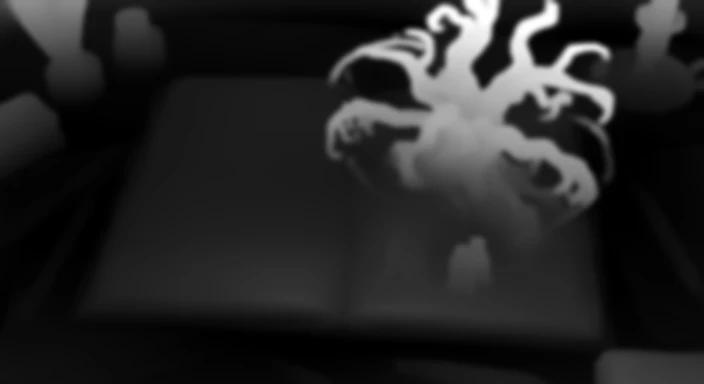
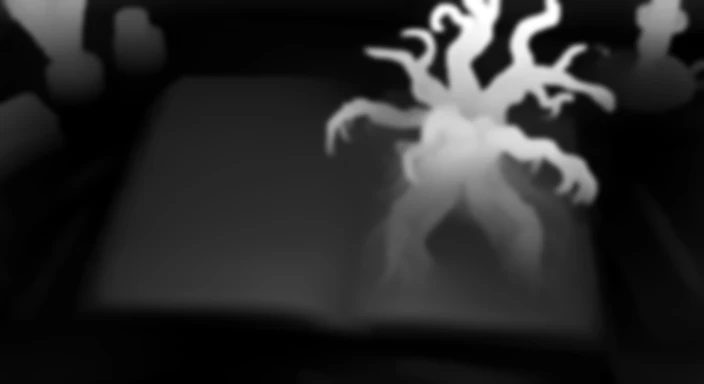
Upside-Down World p6: new crawl-in picture; kid-free plate rebuilt from the frames, kids cut out per pose and animated crawling in, standing and walking into the dark (gliding cross-fades), 2x upscale
Claude-Session: https://claude.ai/code/session_01BFtifSTdmWYaAK88ECs5PE

diff --git a/books/upside-down-world/sprite.js b/books/upside-down-world/sprite.js
@@ -1,2 +1,2 @@
 /* flying objects drawn over a still page: img = transparent sprite, rs = ball radius in the sprite, path = [x,y,radius] per frame at 24 fps in 1408x768 picture pixels */
-window.SPRITES={p01:{img:"img/p01-ball.webp",size:260,rs:104.5,path:[[951.0,390.0,18.5],[946.4,377.6,21.9],[944.8,373.2,22.6],[941.8,364.8,24.4],[938.6,356.8,26.0],[935.2,349.1,27.6],[931.6,342.1,29.2],[927.9,335.5,30.7],[923.8,329.1,32.0],[919.7,322.8,33.5],[915.7,316.9,34.9],[911.8,311.1,36.2],[907.8,305.5,37.6],[903.9,300.1,38.9],[899.8,295.1,40.2],[895.8,290.0,41.2],[891.4,285.1,42.2],[887.2,280.3,43.2],[882.9,275.7,44.3],[878.9,271.0,45.3],[874.9,266.6,46.5],[871.2,262.1,47.8],[867.5,257.7,49.1],[863.9,253.4,50.5],[860.2,249.1,51.8],[856.2,244.7,53.0],[852.4,240.6,54.2],[848.3,236.6,55.3],[843.9,232.6,56.5],[839.6,228.6,57.6],[835.4,224.8,58.6],[830.9,221.0,59.7],[826.3,217.3,60.7],[821.9,213.7,61.5],[817.4,210.1,62.4],[812.8,206.8,63.6],[808.1,203.5,64.5],[803.4,200.3,65.6],[798.8,196.9,66.6],[794.1,193.7,67.7],[789.4,190.4,68.8],[784.8,187.1,70.0],[780.1,183.8,71.3],[775.3,180.6,72.7],[770.3,177.4,74.1],[765.1,174.3,75.5],[759.8,171.1,77.0],[754.7,167.8,78.5],[749.2,164.6,80.0],[743.7,161.4,81.3],[738.1,157.9,82.7],[732.6,154.6,84.0]]},p02:{img:"img/p01-ball.webp",size:260,rs:104.5,kind:"lob",from:[1008,538,9],to:[1040,212,4.2],apex:170,rig:[{img:"img/p02-leg.webp",box:[960,515,60,60],pivot:[987,531],depth:[988,545],motion:"leg"}]},p03:{rig:[{img:"img/p03-leo.webp",box:[906,462,52,56],pivot:[932,504],depth:[932,495],motion:"headL"},{img:"img/p03-sam.webp",box:[946,475,52,56],pivot:[972,515],depth:[972,505],motion:"headS"}]},p03s:{img:"img/p01-ball.webp",size:260,rs:104.5,kind:"hops",ground:true,rest:1.6,start:[920.3,488.6,14.5],du:[1.25,.42,.3],grow:.5,bend:-62,hops:[[896,197,9.5,175],[892,187,8.5,15],[879,181,7.5,6]],to:[879,181,7.5]},p03t:{rig:[{img:"img/p03-turn.webp",box:[888,468,114,140],pivot:[945,538],depth:[945,540],motion:"turn"}]},p05p:{rig:[{img:"img/p05-point.webp",box:[884,452,118,156],pivot:[943,530],depth:[943,540],motion:"point2"}]}};
+window.SPRITES={p01:{img:"img/p01-ball.webp",size:260,rs:104.5,path:[[951.0,390.0,18.5],[946.4,377.6,21.9],[944.8,373.2,22.6],[941.8,364.8,24.4],[938.6,356.8,26.0],[935.2,349.1,27.6],[931.6,342.1,29.2],[927.9,335.5,30.7],[923.8,329.1,32.0],[919.7,322.8,33.5],[915.7,316.9,34.9],[911.8,311.1,36.2],[907.8,305.5,37.6],[903.9,300.1,38.9],[899.8,295.1,40.2],[895.8,290.0,41.2],[891.4,285.1,42.2],[887.2,280.3,43.2],[882.9,275.7,44.3],[878.9,271.0,45.3],[874.9,266.6,46.5],[871.2,262.1,47.8],[867.5,257.7,49.1],[863.9,253.4,50.5],[860.2,249.1,51.8],[856.2,244.7,53.0],[852.4,240.6,54.2],[848.3,236.6,55.3],[843.9,232.6,56.5],[839.6,228.6,57.6],[835.4,224.8,58.6],[830.9,221.0,59.7],[826.3,217.3,60.7],[821.9,213.7,61.5],[817.4,210.1,62.4],[812.8,206.8,63.6],[808.1,203.5,64.5],[803.4,200.3,65.6],[798.8,196.9,66.6],[794.1,193.7,67.7],[789.4,190.4,68.8],[784.8,187.1,70.0],[780.1,183.8,71.3],[775.3,180.6,72.7],[770.3,177.4,74.1],[765.1,174.3,75.5],[759.8,171.1,77.0],[754.7,167.8,78.5],[749.2,164.6,80.0],[743.7,161.4,81.3],[738.1,157.9,82.7],[732.6,154.6,84.0]]},p02:{img:"img/p01-ball.webp",size:260,rs:104.5,kind:"lob",from:[1008,538,9],to:[1040,212,4.2],apex:170,rig:[{img:"img/p02-leg.webp",box:[960,515,60,60],pivot:[987,531],depth:[988,545],motion:"leg"}]},p03:{rig:[{img:"img/p03-leo.webp",box:[906,462,52,56],pivot:[932,504],depth:[932,495],motion:"headL"},{img:"img/p03-sam.webp",box:[946,475,52,56],pivot:[972,515],depth:[972,505],motion:"headS"}]},p03s:{img:"img/p01-ball.webp",size:260,rs:104.5,kind:"hops",ground:true,rest:1.6,start:[920.3,488.6,14.5],du:[1.25,.42,.3],grow:.5,bend:-62,hops:[[896,197,9.5,175],[892,187,8.5,15],[879,181,7.5,6]],to:[879,181,7.5]},p03t:{rig:[{img:"img/p03-turn.webp",box:[888,468,114,140],pivot:[945,538],depth:[945,540],motion:"turn"}]},p05p:{rig:[{img:"img/p05-point.webp",box:[884,452,118,156],pivot:[943,530],depth:[943,540],motion:"point2"}]},p06k:{rig:[{img:"img/p06-k0.webp",box:[878,423,80,114],pivot:[918.4,478.3],depth:[918.4,508.3],motion:"kf0"},{img:"img/p06-k1.webp",box:[866,417,97,111],pivot:[915.3,473.5],depth:[915.3,503.5],motion:"kf1"},{img:"img/p06-k2.webp",box:[874,472,99,116],pivot:[921.4,531.8],depth:[921.4,561.8],motion:"kf2"}]}};

diff --git a/books/upside-down-world/index.html b/books/upside-down-world/index.html
@@ -337,6 +337,23 @@ const MOT={
   /* page 5: Leo points into the hole twice per 16 s cycle (soft fade to the pointing pose) */
   point2(tt){const T=16;tt=((tt%T)+T)%T;const on=(s,e)=>tt<s||tt>e+.5?0:tt<s+.5?ease((tt-s)/.5):tt<e?1:1-ease((tt-e)/.5);
     return {dx:0,dy:0,rot:0,sx:1,sy:1,a:Math.max(on(1.8,6.2),on(9.8,14.2))};},
+  /* page 6: the kids crawl in from the front, reach the entrance, stand and walk into the dark.
+     Each pose glides toward the next one's spot while they cross-fade, so the figures travel instead of popping. */
+  kf(tt,i){const T=15;tt=((tt%T)+T)%T;const C=[[918.4,478.3],[915.3,473.5],[921.4,531.8]],SZ=[1,1,1.06];
+    const sm=x=>{x=Math.max(0,Math.min(1,x));return x*x*(3-2*x);},gl=(a,b,u)=>a+(b-a)*u;
+    const bob=Math.sin(tt*5.2)*1.1,sw=Math.sin(tt*2.6)*.018;
+    const tw=(from,to,u)=>{const p=sm(u),A=C[from],B=C[to],me=i===from?A:B,ex=gl(A[0],B[0],p)-me[0],ey=gl(A[1],B[1],p)-me[1];
+      const sc=i===from?gl(1,SZ[to]/SZ[from],p):gl(SZ[from]/SZ[to],1,p);
+      return {dx:ex,dy:ey+bob,rot:sw,sx:sc,sy:sc,a:i===from?1-sm((u-.38)/.24):sm((u-.38)/.24)};};
+    const no={dx:0,dy:0,rot:0,sx:1,sy:1,a:0};
+    if(tt<1.6)return i===2?{dx:0,dy:bob,rot:sw,sx:1,sy:1,a:1}:no;
+    if(tt<4.6)return i===2||i===1?tw(2,1,(tt-1.6)/3):no;
+    if(tt<6.0)return i===1?{dx:0,dy:bob,rot:sw,sx:1,sy:1,a:1}:no;
+    if(tt<9.0)return i===1||i===0?tw(1,0,(tt-6)/3):no;
+    if(tt<10.4)return i===0?{dx:0,dy:Math.abs(Math.sin(tt*4))*-1,rot:sw*.6,sx:1,sy:1,a:1}:no;
+    if(tt<12.8){if(i!==0)return no;const u=(tt-10.4)/2.4,p=sm(u);return {dx:-3*p,dy:-12*p-Math.abs(Math.sin(tt*4))*(1-p),rot:sw*.6,sx:1-.16*p,sy:1-.16*p,a:1-sm((u-.2)/.8)};}
+    if(tt>14.1)return i===2?{dx:0,dy:bob,rot:sw,sx:1,sy:1,a:sm((tt-14.1)/.9)}:no;
+    return no;},
   hide(tt){const T=16;tt=((tt%T)+T)%T;const S=7.0,E=11.6+.85;return {dx:0,dy:0,rot:0,sx:1,sy:1,a:Math.max(0,Math.min(1,(tt-S)/.12,(E-tt)/.12))};},
   head(tt,dir,lag){const T=16;tt=((tt-lag)%T+T)%T;let k=0;
     if(tt>=.8&&tt<1.9)k=ease((tt-.8)/1.1);else if(tt>=1.9&&tt<4.8)k=1;else if(tt>=4.8&&tt<5.9)k=1-ease((tt-4.8)/1.1);
@@ -347,7 +364,7 @@ function drawRig(c,d,L,now,dt,w,h,t,ps,o){
   const p=L._p,dim=p.fx==='shade'?dimS:0;
   (d.rig||[]).forEach(r=>{if(!r.im||!r.im.complete||!r.im.naturalWidth)return;
     const tt=reduce?0:(now-pageT0)/1000;
-    const M=r.motion==='point2'?MOT.point2(tt):r.motion==='point'?MOT.point(tt):r.motion==='hide'?MOT.hide(tt):r.motion==='turn'?MOT.turn(tt):r.motion==='leg'?MOT.leg(tt):r.motion==='headL'?MOT.head(tt,1,0):MOT.head(tt,-1,.18);
+    const M=r.motion&&r.motion.startsWith('kf')?MOT.kf(tt,+r.motion[2]):r.motion==='point2'?MOT.point2(tt):r.motion==='point'?MOT.point(tt):r.motion==='hide'?MOT.hide(tt):r.motion==='turn'?MOT.turn(tt):r.motion==='leg'?MOT.leg(tt):r.motion==='headL'?MOT.head(tt,1,0):MOT.head(tt,-1,.18);
     const rl=depthAt(p.img,r.depth[0],r.depth[1]),qx=r.pivot[0]/W,qy=r.pivot[1]/H,s2=shiftAt(qx,qy,rl,t),
       px=(o[0]+(qx-o[0])*curS+s2[0])*w,py=(o[1]+(qy-o[1])*curS+s2[1])*h;
     const sh=sm3(.30,.40,qx)*sm3(.97,.90,qx)*sm3(.95,.85,qy)*rl*(.055*Math.sin(t*1.6+qx*13+qy*6)+.035*Math.sin(t*2.7-qy*17)),f=(1+sh)*(1-dim*.25);

diff --git a/books/upside-down-world/story.js b/books/upside-down-world/story.js
@@ -13,7 +13,7 @@ window.STORY={title:"The Upside-Down World",author:"M. A. Mafodh",pages:[
 {img:"p03",fx:"shade",sprite:"p05p",box:[362,190,628,385],parts:[
  "Leo was nine. He wasn't supposed to be scared of trees. \"Don't be silly, Sam. It's just a tree.\" But he felt it too. A shiver ran down his spine, even under the warm sun.",
  "The tree was extra shady. The branches looked like long, scratchy fingers, and the hole their ball had fallen into was black and deep, like a secret the ground was keeping."]},
-{img:"p05",box:[362,190,628,390],parts:[
+{img:"p05",sprite:"p06k",box:[362,190,628,390],parts:[
  "Together, they peered into the darkness. \"I'll get it,\" Leo said, trying to sound brave. He got on his hands and knees and crawled under a low-hanging branch.",
  "The air suddenly felt cool and smelled like damp earth and something sweet, like honey. Sam crawled in right behind him, clutching the back of Leo's shirt."]},
 {img:"p06",box:[362,190,700,375],parts:[
